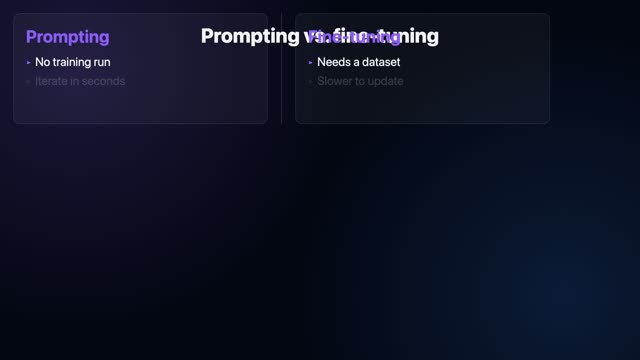
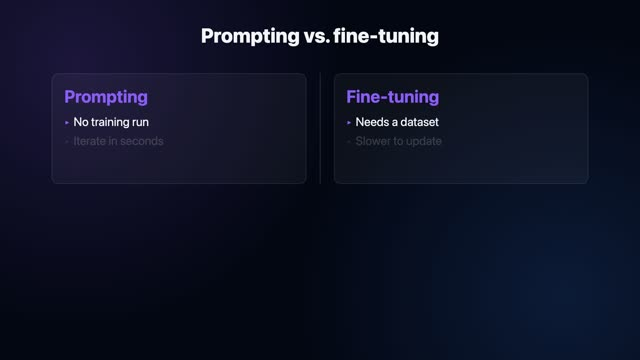
Fix comparison headline overlap; propagate to gallery, Azure, RunPod
- src/Main.tsx (Comparison): panels now render in their own region below the
  headline (top:180, top-aligned) so they no longer overlap the title; slide-in,
  winner lift, and green outline unchanged.
- Re-rendered samples/comparison.mp4 + poster so the gallery shows the fix.
- Redeployed the Azure serveUrl bundle and rebuilt+repushed the RunPod worker
  image (bakes the bundle) so all consumers get the fix.
- UPDATE_LOG.md: documents every step taken (worked example of DEVELOPING.md);
  linked from README.

diff --git a/src/Main.tsx b/src/Main.tsx
@@ -251,11 +251,14 @@ const Comparison: React.FC<any> = (p) => {
   };
   return (
     <Stage bgColor={p.bgColor}>
-      <div style={{ position: "absolute", top: 70, width: "100%", textAlign: "center", fontFamily: FONT_HEAD, fontWeight: 800, fontSize: 60 }}>{p.title}</div>
-      <div style={{ display: "flex", width: "88%", gap: 40, padding: 40 }}>
-        {panel("left", left, lX)}
-        <div style={{ width: 3, background: "rgba(255,255,255,0.12)" }} />
-        {panel("right", right, rX)}
+      <div style={{ position: "absolute", top: 70, left: 0, right: 0, textAlign: "center", fontFamily: FONT_HEAD, fontWeight: 800, fontSize: 60 }}>{p.title}</div>
+      {/* panels live in their own region BELOW the headline, top-aligned so they sit just under it (small gap) */}
+      <div style={{ position: "absolute", top: 180, left: 0, right: 0, bottom: 60, display: "flex", alignItems: "flex-start", justifyContent: "center" }}>
+        <div style={{ display: "flex", width: "88%", gap: 40, padding: 40, alignItems: "stretch" }}>
+          {panel("left", left, lX)}
+          <div style={{ width: 3, background: "rgba(255,255,255,0.12)" }} />
+          {panel("right", right, rX)}
+        </div>
       </div>
     </Stage>
   );

diff --git a/UPDATE_LOG.md b/UPDATE_LOG.md
@@ -1,0 +1,82 @@
+# 📋 Update Log — worked examples of changing this bundle
+
+Real, dated records of changes to `src/`, kept as **worked examples** of the
+[`DEVELOPING.md`](./DEVELOPING.md) process. Use these as a template for future
+edits: what changed, how it was verified, and every propagation step taken.
+
+---
+
+## 2026-06-29 — Fix `comparison` headline overlap
+
+**Goal:** the top headline overlapped the two comparison panels. Make the panels
+sit **below** the headline; keep the slide-in, the winner lift, and the green
+outline.
+
+### Diagnosis
+`<Stage>` is an `AbsoluteFill` (flex column). The title was
+`position: absolute; top: 70`, while the panels rendered from the **top of the
+flex stage** (y≈0) — so the panel titles collided with the headline.
+
+### Change (`src/Main.tsx`, `Comparison`)
+Put the panels in their own absolutely-positioned region **below** the headline,
+top-aligned so the gap is small:
+
+```tsx
+<div style={{ position: "absolute", top: 70, left: 0, right: 0, textAlign: "center", … }}>{p.title}</div>
+<div style={{ position: "absolute", top: 180, left: 0, right: 0, bottom: 60,
+             display: "flex", alignItems: "flex-start", justifyContent: "center" }}>
+  <div style={{ display: "flex", width: "88%", gap: 40, padding: 40, alignItems: "stretch" }}>
+    {panel("left", left, lX)} <divider/> {panel("right", right, rX)}
+  </div>
+</div>
+```
+- v1 used `top: 200` + `alignItems: center` → fixed overlap but left a big gap
+  under the headline.
+- v2 (shipped) uses `top: 180` + `alignItems: flex-start` per review feedback
+  ("move panels up, less gap").
+
+### Steps taken (the propagation checklist in action)
+1. **Edited** `Comparison` in `src/Main.tsx`.
+2. **Local render** + frame check (no studio needed):
+   ```bash
+   npx remotion render src/index.ts Main out/comparison_fixed.mp4 --props=/tmp/cmp.json
+   ffmpeg -i out/comparison_fixed.mp4 -vf "select=eq(n\,45)"  -frames:v 1 f45.png
+   ffmpeg -i out/comparison_fixed.mp4 -vf "select=eq(n\,140)" -frames:v 1 f140.png
+   ```
+   Verified frame 45 (slide-in) and 140 (winner lifted) — headline clear of panels.
+3. **Review gate:** opened the clip in Chrome, got approval. Feedback → tightened
+   the gap (v2), re-rendered, re-verified, approved.
+4. **Re-rendered the published gallery clip** so `index.html` shows the fix:
+   ```bash
+   npx remotion render src/index.ts Main samples/comparison.mp4 --props=/tmp/cmp.json
+   ffmpeg -ss 2 -i samples/comparison.mp4 -frames:v 1 -vf scale=640:-2 samples/posters/comparison.jpg
+   ```
+5. **Redeployed the Azure `serveUrl` bundle** (for prebuilt-bundle consumers):
+   ```bash
+   ./deploy-bundle.sh    # → https://dpremotionbundle.z33.web.core.windows.net/
+   ```
+6. **Rebuilt + repushed the RunPod worker image** (it bakes the bundle, so this is
+   mandatory for any `src/` change):
+   ```bash
+   docker buildx build --platform linux/amd64 -f runpod/Dockerfile \
+     -t ghcr.io/rifaterdemsahin/claude-animations-runpod:latest --push .
+   ```
+7. **Committed + pushed** `src/Main.tsx`, `samples/comparison.mp4`,
+   `samples/posters/comparison.jpg`, and this log → GitHub Pages redeploys.
+
+### Manual step left to the operator
+- **Refresh RunPod workers** so they pull the new `:latest` image: endpoint
+  `s13kv6t2jg78lk` → set Min workers `0 → 1` (or release workers). New workers
+  pull automatically; a warm worker would keep the old image.
+
+### Result
+Headline cleanly separated from the panels at all frames; winner lift + green
+outline intact. Verified locally and in the published `samples/comparison.mp4`.
+
+---
+
+### Template for the next change
+1. Edit `src/Main.tsx` → 2. local render + frame/Chrome check → 3. review/approve
+→ 4. re-render published clips (`samples/`, batches) → 5. `./deploy-bundle.sh`
+→ 6. rebuild+push RunPod image → 7. commit+push → 8. refresh RunPod workers.
+(Full rationale + skip-able cases: [`DEVELOPING.md`](./DEVELOPING.md) §D.)

diff --git a/README.md b/README.md
@@ -12,6 +12,7 @@
 **Consume from another app (Player / Node / RunPod API) + props for all 10 types:** see [`CONSUMING.md`](./CONSUMING.md)
 **How we got RunPod working, step by step (build log):** see [`RUNPOD_WALKTHROUGH.md`](./RUNPOD_WALKTHROUGH.md)
 **Add/update an animation type or bump Remotion (maintainer guide):** see [`DEVELOPING.md`](./DEVELOPING.md)
+**Change history with the exact steps taken (worked examples):** see [`UPDATE_LOG.md`](./UPDATE_LOG.md)
 
 ---
 